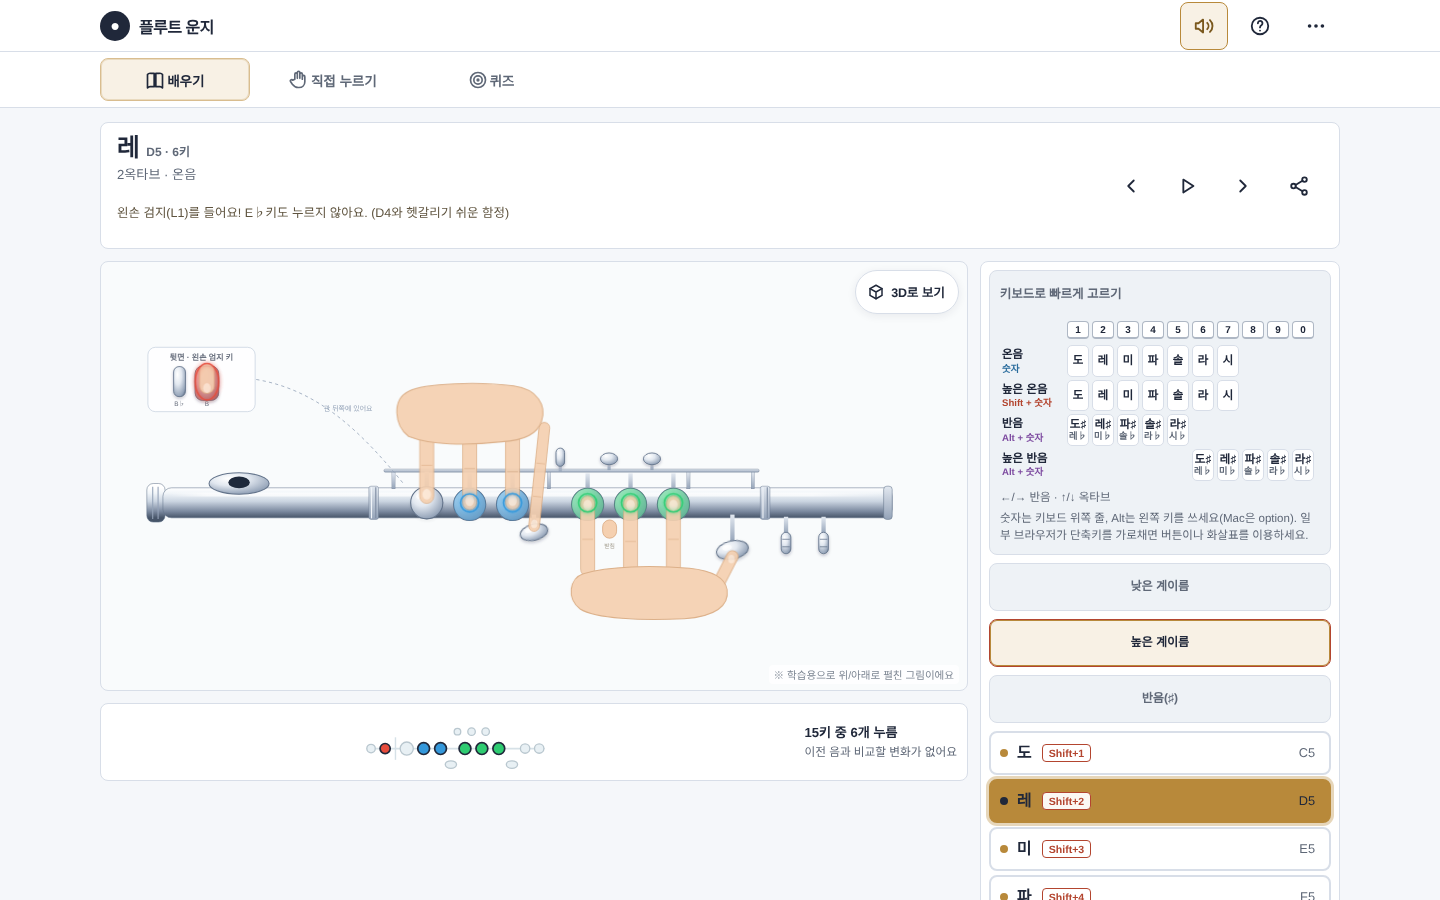
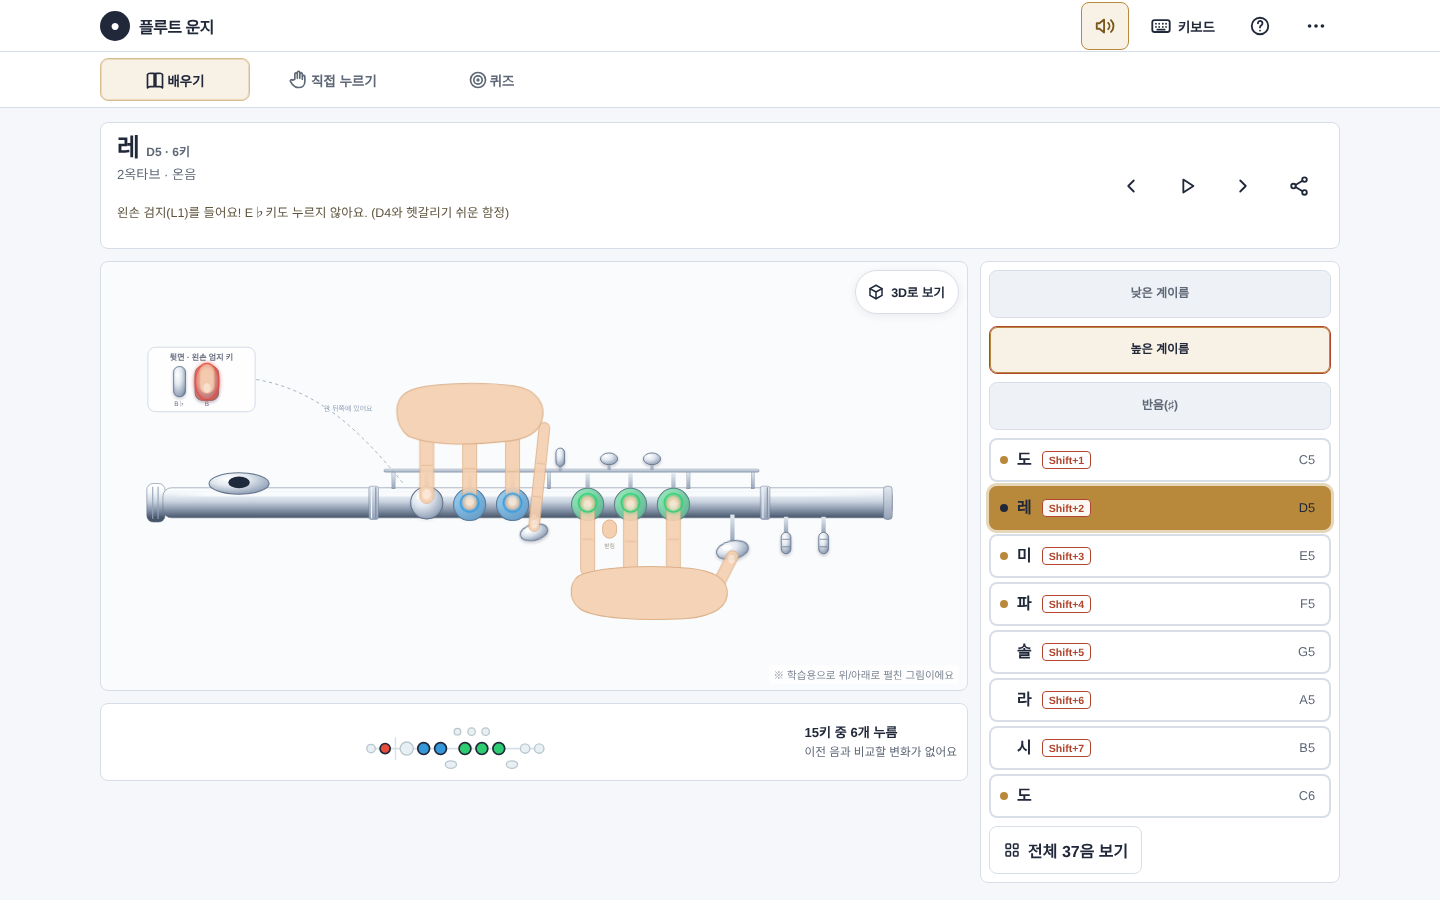
Move the keyboard-shortcut guide from the side panel to a header menu
The 2D app's "키보드로 빠르게 고르기" table (digits 1-0 x plain / Shift /
Alt / Alt-high, 24 shortcuts) sat at the top of the right-hand note
panel and pushed the note list down, so only 3.5 rows were visible on a
1440x900 screen. Remove it from the panel and open it from a new
"키보드" button in the top header instead (between sound and help).

- Non-modal popover under the header (role=region, max 440px wide), not
  a sheet: keys still work while it is open and the pressed cell still
  flashes. Closes on the same button, x, Esc, a click outside, another
  overlay opening, or switching to a quiz mode.
- Shown only where the shortcuts work: hidden on touch devices (as the
  old guide and key badges already were) and in quiz1/quiz2 mode.
- Button label "키보드" appears at >=640px, icon only below that; the
  accessible name is "키보드 안내". Tab from the button goes straight
  into the menu.
- Menu max-height leaves room for the fixed bottom mode tabs (<1024px)
  and scrolls inside when the window is short.
- Table code (buildKeyboardGuide / shortcutTableMarkup / flashShortcut)
  is unchanged; the help dialog still uses the same table.
- The panel now holds tabs + list + "전체 37음 보기" only: 8 rows plus
  the button fit in the first 1440x900 screen.

No change to note buttons: every note-name list (2D panel, 2D "all 37
notes" sheet, 3D panel) was already one column and still is; the only
horizontal group left is the 4 answer buttons of the 10-question quiz.
[…]

Changed region(s): [[0.6875, 0.6533, 0.9375, 1.0], [0.6875, 0.3111, 0.9375, 0.6533], [0.75, 0.0, 0.875, 0.0622]]

diff --git a/index.html b/index.html
@@ -389,9 +389,30 @@ body:not([data-mode="learn"]) .stage-3d-link{display:none}
 }
 .primary-button{background:var(--ink);color:#fff;border-color:var(--ink)}
 .secondary-button:hover{border-color:var(--accent)}
-#kbd-guide{order:4;margin:0 0 8px;border:1px solid var(--line);border-radius:var(--radius);background:var(--surface-soft);padding:0 10px}
-#kbd-guide summary{min-height:44px;font-size:.78rem;font-weight:800;color:var(--muted);display:flex;align-items:center;cursor:pointer}
-.kbd-guide-body{padding:0 0 10px;font-size:.72rem;color:var(--muted)}
+/* 상단 헤더의 「키보드」 메뉴: 누르면 헤더 바로 아래에 안내 표가 펼쳐진다.
+   화면을 덮는 창(시트)이 아니라서 열어 둔 채로 키를 눌러 볼 수 있고, 누른 칸이 반짝인다.
+   마우스·키보드 화면 전용 — 터치 기기에서는 버튼도 메뉴도 숨긴다(아래 hover:none 규칙). */
+.top-actions{position:relative}
+#kbd-menu-btn .kbd-menu-label{display:none}
+#kbd-menu-btn[aria-expanded="true"]{background:#f8f1e5;border-color:var(--accent);color:#7a581d}
+#kbd-menu{
+  position:absolute;top:calc(100% + 8px);right:0;z-index:40;box-sizing:border-box;width:min(440px,calc(100vw - 20px));
+  max-height:calc(100dvh - var(--topbar-h) - var(--nav-h) - var(--safe-bottom) - 20px);overflow:auto;padding:8px 14px 6px;
+  background:var(--surface);border:1px solid var(--line);border-radius:var(--radius);box-shadow:0 14px 36px rgba(32,40,58,.22)
+}
+#kbd-menu[hidden]{display:none}
+.kbd-menu-head{display:flex;align-items:center;justify-content:space-between;gap:10px;margin-bottom:4px}
+.kbd-menu-head h2{font-size:.95rem}
+#kbd-menu-close{min-width:36px;min-height:36px}
+.kbd-guide-body{padding:0 0 8px;font-size:.74rem;color:var(--muted)}
+@media (min-width:640px){
+  #kbd-menu-btn{gap:6px;padding:0 12px}
+  #kbd-menu-btn .kbd-menu-label{display:inline;font-size:.84rem;font-weight:800;white-space:nowrap}
+}
+/* 1024px 미만에서는 모드 탭이 화면 아래에 고정돼 있어서(위 max-height가 그만큼 비켜 둠), 1024px 이상에서는 탭이 위로 올라가므로 높이를 다시 넓힌다 */
+@media (min-width:1024px){
+  #kbd-menu{max-height:calc(100dvh - var(--topbar-h) - 20px)}
+}
 /* 단축키 표: 열 = 위쪽 줄 숫자 1~0(10칸), 행 = 온음 · 높은 온음 · 반음 · 높은 반음 (행 이름 색 = 버튼 배지 색) */
 .kbd-table{width:100%;max-width:440px;table-layout:fixed;border-collapse:separate;border-spacing:3px;margin:0 -3px;font-size:.72rem;color:var(--ink)}
 .kbd-table th,.kbd-table td{padding:3px 0;text-align:center;vertical-align:middle;line-height:1.15}
@@ -491,7 +512,11 @@ footer{padding:12px 10px 20px;color:#7e8794;font-size:.72rem}
 body[data-mode="quiz1"] #selector-dock,
 body[data-mode="quiz2"] #selector-dock,
 body[data-mode="quiz1"] #view-segment,
-body[data-mode="quiz2"] #view-segment{display:none}
+body[data-mode="quiz2"] #view-segment,
+body[data-mode="quiz1"] #kbd-menu-btn,
+body[data-mode="quiz2"] #kbd-menu-btn,
+body[data-mode="quiz1"] #kbd-menu,
+body[data-mode="quiz2"] #kbd-menu{display:none}
 body[data-mode="learn"] #quiz-panel{display:none}
 body[data-mode="speed"] #selector-dock{display:block}
 body[data-mode="speed"] #view-segment{display:none}
@@ -500,7 +525,7 @@ body[data-mode="quiz1"] #note-info .summary-actions,
 body[data-mode="quiz2"] #note-info .summary-actions{display:none}
 
 @media (hover:none),(pointer:coarse){
-  .kbd-badges,#kbd-guide{display:none!important}
+  .kbd-badges,#kbd-menu-btn,#kbd-menu{display:none!important}
 }
 /* 모바일·태블릿(한 줄로 흐르는 화면): 계이름 목록이 세로로 길어졌으니
    · 배우기: 운지 그림을 화면 위에 고정 → 아래로 스크롤하며 음을 눌러도 그림이 계속 보인다(3D 화면과 같은 방식).
@@ -556,7 +581,7 @@ body[data-mode="quiz2"] #note-info .summary-actions{display:none}
 }
 @media (forced-colors:active){
   .mode-button.mode-active,.selector-tab[aria-selected="true"],.group-note-btn.active,.note-btn.active,
-  .camera-button[aria-pressed="true"],.practice-key[aria-pressed="true"]{outline:3px solid Highlight;outline-offset:-3px}
+  .camera-button[aria-pressed="true"],.practice-key[aria-pressed="true"],#kbd-menu-btn[aria-expanded="true"]{outline:3px solid Highlight;outline-offset:-3px}
   .mini-key.pressed{fill:Highlight!important;stroke:CanvasText!important}
   .kbd-badge{forced-color-adjust:none}
 }
@@ -585,6 +610,7 @@ body[data-mode="quiz2"] #note-info .summary-actions{display:none}
   <symbol id="icon-grid" viewBox="0 0 24 24"><rect x="4" y="4" width="6" height="6" rx="1"/><rect x="14" y="4" width="6" height="6" rx="1"/><rect x="4" y="14" width="6" height="6" rx="1"/><rect x="14" y="14" width="6" height="6" rx="1"/></symbol>
   <symbol id="icon-refresh" viewBox="0 0 24 24"><path d="M20 7v5h-5"/><path d="M18.5 9A7.5 7.5 0 1 0 19 16"/></symbol>
   <symbol id="icon-cube" viewBox="0 0 24 24"><path d="m12 3 8 4.5v9L12 21l-8-4.5v-9z"/><path d="m4 7.5 8 4.5 8-4.5M12 12v9"/></symbol>
+  <symbol id="icon-keyboard" viewBox="0 0 24 24"><rect x="2.5" y="5.5" width="19" height="13" rx="2.5"/><path d="M6.5 9.5h.01M10 9.5h.01M14 9.5h.01M17.5 9.5h.01M6.5 13h.01M10 13h.01M14 13h.01M17.5 13h.01M8 16h8"/></symbol>
 </svg>
 
 <div id="app-shell">
@@ -592,6 +618,14 @@ body[data-mode="quiz2"] #note-info .summary-actions{display:none}
   <div class="app-brand"><span class="app-brand-mark" aria-hidden="true">●</span><h1 class="app-brand-text">플루트 운지</h1></div>
   <div class="top-actions" id="header-controls">
     <button id="sound-toggle" class="icon-button" aria-pressed="true" aria-label="소리 끄기" title="소리 끄기"><svg class="icon"><use href="#icon-speaker"></use></svg></button>
+    <button id="kbd-menu-btn" class="icon-button" type="button" aria-expanded="false" aria-controls="kbd-menu" aria-label="키보드 안내" title="키보드로 빠르게 고르기"><svg class="icon"><use href="#icon-keyboard"></use></svg><span class="kbd-menu-label">키보드</span></button>
+    <div id="kbd-menu" role="region" aria-labelledby="kbd-menu-title" hidden>
+      <div class="kbd-menu-head">
+        <h2 id="kbd-menu-title">키보드로 빠르게 고르기</h2>
+        <button id="kbd-menu-close" class="icon-button" type="button" aria-label="키보드 안내 닫기"><svg class="icon"><use href="#icon-x"></use></svg></button>
+      </div>
+      <div id="kbd-guide"><div class="kbd-guide-body" id="kbd-guide-body"></div></div>
+    </div>
     <button id="help-btn" class="icon-button" aria-label="도움말 열기" title="도움말"><svg class="icon"><use href="#icon-help-circle"></use></svg></button>
     <button id="more-btn" class="icon-button" aria-haspopup="dialog" aria-controls="more-sheet" aria-label="더보기 열기" title="더보기"><svg class="icon"><use href="#icon-more-horizontal"></use></svg></button>
   </div>
@@ -917,10 +951,6 @@ body[data-mode="quiz2"] #note-info .summary-actions{display:none}
   </div>
 
   <section id="selector-dock" aria-label="계이름 선택">
-    <details id="kbd-guide" open>
-      <summary>키보드로 빠르게 고르기</summary>
-      <div class="kbd-guide-body" id="kbd-guide-body"></div>
-    </details>
     <div id="selector-tabs" role="tablist" aria-label="계이름 분류"></div>
     <div id="selector-grid" role="tabpanel"></div>
     <div class="selector-footer">
@@ -2037,6 +2067,7 @@ function setMode(mode){
   quiz.answering = false;
   appState.mode = mode;
   document.body.dataset.mode = mode;
+  if (!["learn","speed"].includes(mode)) setKbdMenu(false);   // 단축키는 배우기·스피드 연습에서만 켜진다
   ["learn","quiz1","quiz2"].forEach(m =>
     {
       const active = m === mode || (m === "quiz1" && mode === "speed");
@@ -2461,6 +2492,7 @@ function trapFocus(event,container){
 function openOverlay(id,trigger){
   const overlay = document.getElementById(id);
   if (!overlay || !overlay.hidden) return;
+  setKbdMenu(false);   // 창이 열리면 헤더의 키보드 안내는 접는다
   overlayReturnFocus.set(id,trigger || document.activeElement);
   overlay.hidden = false;
   const shell = document.getElementById("app-shell");
@@ -2516,6 +2548,30 @@ function openAllNotes(){
   document.querySelectorAll(".octave-section").forEach(section => section.open = Number(section.dataset.oct) === (note?.oct || 1));
   openOverlay("all-notes-overlay",document.getElementById("all-notes-btn"));
   requestAnimationFrame(() => document.querySelector(`.note-btn[data-note="${appState.noteId}"]`)?.scrollIntoView({block:"center"}));
+}
+/* 헤더의 「키보드」 메뉴(안내 표). 시트와 달리 화면을 막지 않아서, 열어 둔 채로 단축키를 눌러 볼 수 있다.
+   닫히는 때: 같은 버튼 · 닫기(×) · Esc · 바깥을 누를 때 · 다른 창이 열릴 때 · 퀴즈로 바뀔 때(단축키가 꺼지는 모드) */
+function setKbdMenu(open, returnFocus){
+  const menu = document.getElementById("kbd-menu");
+  const button = document.getElementById("kbd-menu-btn");
+  if (!menu || !button || menu.hidden === !open) return;
+  menu.hidden = !open;
+  button.setAttribute("aria-expanded", String(open));
+  if (!open && returnFocus) button.focus();
+}
+function initKbdMenu(){
+  const menu = document.getElementById("kbd-menu");
+  const button = document.getElementById("kbd-menu-btn");
+  button.addEventListener("click", () => setKbdMenu(menu.hidden));
+  document.getElementById("kbd-menu-close").addEventListener("click", () => setKbdMenu(false,true));
+  document.addEventListener("pointerdown", event => {
+    if (!menu.hidden && !menu.contains(event.target) && !button.contains(event.target)) setKbdMenu(false);
+  });
+  /* initHelp()의 Esc 처리보다 먼저 등록해야 한다: 창이 열려 있을 때의 Esc는 창만 닫는다 */
+  document.addEventListener("keydown", event => {
+    if (event.key !== "Escape" || menu.hidden || hasOpenOverlay()) return;
+    setKbdMenu(false, menu.contains(document.activeElement) || document.activeElement === button);
+  });
 }
 function initHelp(){
   const help = document.getElementById("help-overlay");
@@ -2727,6 +2783,7 @@ document.addEventListener("DOMContentLoaded", () => {
   renderDebugLayer();
   initAudioUI();
   initModes();
+  initKbdMenu();
   initHelp();
   initKeyClicks();
   initPrint();

diff --git a/docs/3d-view.md b/docs/3d-view.md
@@ -68,7 +68,12 @@ node qa/check-3d-data.mjs
 
 - **탭 3개**(낮은 계이름 8개 · 높은 계이름 8개 · 반음(♯) 10개) 중 고른 탭의 버튼만 `#selector-grid`에 세로로 쌓입니다. 탭 동작과 접근성 속성(`role="tablist"`, ←/→ 이동)은 그대로입니다.
 - **버튼 한 줄**(`.group-note-btn`): 왼쪽에 한글 이름(반음은 「도♯/레♭」을 한 줄로), 그 바로 옆에 **단축키 배지**(`1` · `Shift+1` · `Alt+1` …, 마우스 화면에서만 보임), 오른쪽 끝에 영문 음이름이 놓입니다. 팁이 있는 음은 왼쪽 여백에 금색 점이 붙습니다. 높이 44px 이상, 폭은 패널 가득이고, 고른 음은 3D처럼 금색 채움입니다(예전의 ✓ 배지는 뺐고, 강제 색상 모드에서는 3px 윤곽선). 「전체 37음 보기」 시트(`#all-notes-sheet`)의 버튼(`.note-btn`)도 **같은 한 줄 모양**입니다. 1·2·3옥타브 묶음(12 · 12 · 13개)마다 세로로 쌓이고, CSS 규칙은 `.group-note-btn`과 함께 씁니다. 줄을 누르면 시트가 닫히고 그 음이 골라집니다.
-- **목록 안에서는 스크롤하지 않습니다**(스크롤은 페이지 하나뿐). 데스크톱(1024px 이상)에서는 패널이 오른쪽 열에 놓이는데, 목록이 길어진 만큼 레이아웃 그리드의 세 번째 행을 `1fr`로 두어(남는 높이를 「운지 요약」 행이 받음) 운지 그림과 요약 사이가 벌어지지 않습니다. 키보드 안내 표가 목록 위에 있어서 화면이 낮은 노트북에서는 페이지를 조금 내려 아래쪽 버튼을 봅니다.
+- **목록 안에서는 스크롤하지 않습니다**(스크롤은 페이지 하나뿐). 데스크톱(1024px 이상)에서는 패널이 오른쪽 열에 놓이는데, 목록이 길어진 만큼 레이아웃 그리드의 세 번째 행을 `1fr`로 두어(남는 높이를 「운지 요약」 행이 받음) 운지 그림과 요약 사이가 벌어지지 않습니다. 패널에는 탭 · 목록 · 「전체 37음 보기」 버튼만 있어서(키보드 안내 표는 아래 「헤더의 키보드 메뉴」로 옮김) 1440×900 화면에서 목록 8줄과 「전체 37음 보기」가 첫 화면에 다 들어옵니다.
+- **헤더의 「키보드」 메뉴** (`#kbd-menu-btn` · `#kbd-menu`): 예전에 패널 위쪽에 있던 「키보드로 빠르게 고르기」 안내 표(숫자 1~0 × 온음 · 높은 온음 · 반음 · 높은 반음, 4줄 · 24칸)를 **상단 헤더의 버튼**으로 옮겼습니다. 헤더 순서는 소리 · **키보드** · 도움말 · 더보기이고, 640px 이상에서는 아이콘 옆에 「키보드」 글자가 붙고 그보다 좁으면 아이콘만 보입니다(접근성 이름은 「키보드 안내」).
+  - 누르면 버튼 아래에 **떠 있는 상자**(`role="region"`, 폭 최대 440px, 키가 작은 창에서는 상자 안에서 스크롤)가 열립니다. 다른 창을 덮는 팝업(모달)이 아니라서 **열어 둔 채로 숫자 키를 눌러도 음이 바뀌고 그 칸이 반짝입니다.** 표 코드(`buildKeyboardGuide()` · `shortcutTableMarkup()` · `flashShortcut()`)는 그대로이고 도움말 창의 표도 같은 함수를 씁니다.
+  - 닫기: 같은 버튼 · 상자 안의 × · `Esc`(상자 안이나 버튼에 포커스가 있었으면 버튼으로 돌아옴) · 상자 바깥 누르기. 도움말이나 「전체 37음 보기」 시트가 열릴 때, 그리고 퀴즈로 바뀔 때도 자동으로 닫힙니다. `Tab`을 누르면 바로 상자 안(× 버튼)으로 들어갑니다.
+  - **숨는 경우**: 터치 기기(키보드가 없어 `@media (hover:none),(pointer:coarse)`에서 배지와 함께 숨김)와 단축키가 꺼지는 퀴즈(10문제) · 직접 누르기 모드. 배우기와 스피드 연습에서는 보입니다. 3D 화면은 그대로입니다(「보기 설정」 안의 안내 문구).
+  - 코드는 `setKbdMenu()` · `initKbdMenu()`(열기 · 닫기 · 바깥 누르기 · `Esc`)이고, `openOverlay()`와 `setMode()`가 `setKbdMenu(false)`를 불러 다른 창과 겹치지 않게 합니다. 초기화 순서는 `initModes()` → `initKbdMenu()` → `initHelp()`입니다(도움말이 열려 있을 때 `Esc`가 메뉴가 아닌 도움말만 닫도록).
 - **모바일·태블릿(1024px 미만)**: 목록이 길어졌으므로 배우기 모드에서 화면 높이가 600px 이상이면 **운지 그림(`#stage`)이 위에 고정**되고 버튼 목록이 그 아래로 지나갑니다(가로로 돌린 폰처럼 낮은 화면에서는 고정하지 않음). 스피드 연습에서는 문제(`#quiz-panel`)를 목록 위로 올려, 문제를 보면서 바로 아래 버튼을 누르게 했습니다.
 - 코드는 `renderGroupSelector()`(버튼 생성) · `noteButtonMarkup()`(버튼 안쪽 마크업, 시트와 공용)에 있고, 모양은 CSS `#selector-grid` · `.octave-section .note-grid`(`flex-direction: column`)와 `.group-note-btn` · `.note-btn`(`min-height: 44px`)으로 정합니다.
 
@@ -114,7 +119,8 @@ node qa/check-3d-data.mjs
 - 함정 음 D4·D5·D6, 대체 운지 A♯4(3종), 롤러 C4·C♯4, 트릴 B♭6·B6의 손가락이 해당 키에 닿는다.
 - 오른쪽 패널: 옥타브 버튼을 누르면 같은 계이름으로 옮겨지고 계이름 버튼 목록에 선택한 음(금색)이 보인다. C7은 3옥타브에서만 있다. 「보기 설정」은 접혀 있고 펼치면 스위치 4개가 나온다.
 - 계이름 버튼은 세로 한 줄(1열)로 쌓이고 폭이 모두 같다. 어떤 음을 골라도 그 버튼이 금색으로 채워지고, 목록 안에서는 스크롤되지 않는다(페이지만 스크롤). 모바일에서는 3D 화면이 위에 고정된 채 버튼이 그 아래로 지나가고, 화면 높이가 낮은 노트북에서는 페이지를 조금 내려 아래쪽 버튼과 「보기 설정」을 본다.
-- 키보드 숫자 1~7(도~시) · Shift+1~7(높은 도~시) · Alt+1~5(반음) · Alt+6~0(높은 반음)으로 2D·3D 모두 같은 음이 골라진다(24개). 2D에서는 그 단축키의 탭(낮은 계이름 · 높은 계이름 · 반음)이 펼쳐지고 안내 표의 그 칸이 반짝인다. Windows에서는 Alt를 왼쪽 키로 누른다(오른쪽 Alt는 한/영 키).
+- 키보드 숫자 1~7(도~시) · Shift+1~7(높은 도~시) · Alt+1~5(반음) · Alt+6~0(높은 반음)으로 2D·3D 모두 같은 음이 골라진다(24개). 2D에서는 그 단축키의 탭(낮은 계이름 · 높은 계이름 · 반음)이 펼쳐지고, 헤더의 「키보드」 메뉴를 열어 두었다면 안내 표의 그 칸이 반짝인다. Windows에서는 Alt를 왼쪽 키로 누른다(오른쪽 Alt는 한/영 키).
+- 2D 헤더의 「키보드」 메뉴(마우스 화면): 소리와 도움말 버튼 사이에 있고, 누르면 안내 표가 버튼 아래에 열린다. 오른쪽 패널에는 더 이상 안내 표가 없다. 열린 채로 숫자 키를 눌러도 음이 바뀐다. 같은 버튼 · × · Esc · 바깥 누르기로 닫히고, 도움말 · 전체 37음 시트를 열거나 퀴즈로 바꾸면 저절로 닫힌다. 퀴즈(10문제) · 직접 누르기와 터치 기기에서는 버튼이 보이지 않는다.
 - 2D 계이름 선택 패널: 탭 3개(낮은 · 높은 · 반음) 모두 버튼이 세로 한 줄(1열)로 쌓이고 폭이 같다. 고른 음이 금색으로 채워지고, 단축키 배지(마우스 화면)가 한글 이름 옆에 있으며 영문 이름과 겹치지 않는다. 모바일에서는 운지 그림이 위에 고정된 채 버튼이 그 아래로 지나가고(가로로 돌리면 고정되지 않음), 스피드 연습에서는 문제가 버튼 목록 위에 나온다. 「전체 37음 보기」 시트도 줄이 세로 한 줄로 쌓이고(옥타브 묶음별 12 · 12 · 13개), 줄을 누르면 시트가 닫히며 그 음이 선택된다.
 - 앱을 한 번 연 뒤 오프라인에서 2D·3D 화면이 각각 제대로 열린다.
 - WebGL을 끈 브라우저에서 안내 문구와 2D 링크가 나온다.
